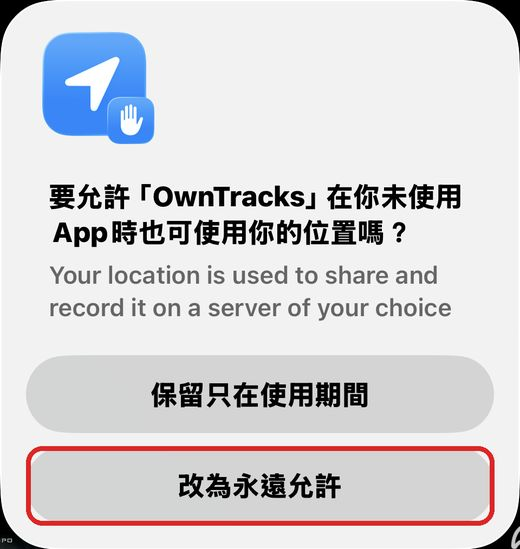
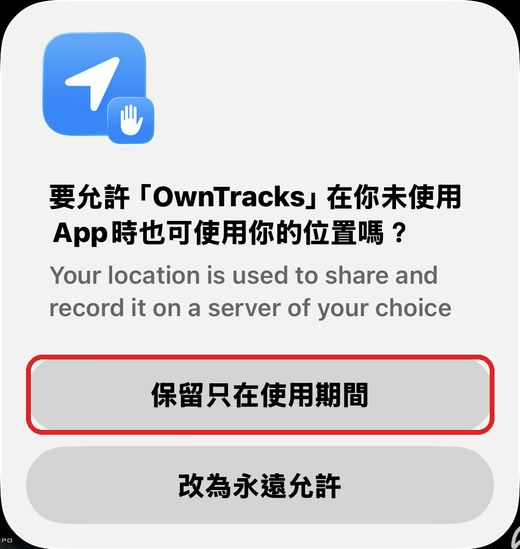
定位：背景位置改回「保留只在使用期間」（滑掉 App＝停止分享）
Claude-Session: https://claude.ai/code/session_01SgUoPQ3VnJEGpEUev7jTiB

Changed region(s): [[0.0308, 0.6193, 0.9538, 0.9599]]

diff --git a/locate/index.html b/locate/index.html
@@ -464,8 +464,8 @@
         <div class="sl"><div class="slh"><b>5</b>確認打開<small>5/9</small></div><div class="imp">⚠ 重要：一定不能點錯</div><div class="slt">跳出警告，按右邊紅字「<b>Continue</b>」<br><span class="hint">按 Cancel 的話要回上一步重開</span></div><div class="sli"><img src="img/p-allow-ok.jpg" alt=""></div></div>
         <div class="sl"><div class="slh"><b>6</b>匯入設定<small>6/9</small></div><div class="imp">⚠ 重要：一定不能點錯</div><div class="slt"><b>① 先按這個綠色按鈕</b>（在要定位的這支手機上按）</div><div class="sli"><a class="btn g" href="${esc(link)}" style="width:100%;max-width:340px">📲 按這裡匯入設定</a><div class="slt" style="width:100%;margin-top:10px"><b>② 跳出設定內容，按右邊紅字「Continue」</b></div><img src="img/p-import.jpg" alt=""></div></div>
         <div class="sl"><div class="slh"><b>7</b>匯入成功<small>7/9</small></div><div class="easy">👌 選哪個都可以，照下面選就好</div><div class="slt">接下來兩個視窗都按「<b>Continue</b>」。上方模式會自動變成 <b>Move</b>。</div><div class="sli"><div class="g2"><figure><img src="img/p-done.jpg" alt=""><figcaption>✅ 匯入成功 → <b>Continue</b></figcaption></figure><figure><img src="img/p-setup.jpg" alt=""><figcaption>✅ 內建提示 → <b>Continue</b></figcaption></figure></div></div></div>
-        <div class="sl"><div class="slh"><b>8</b>背景位置<small>8/9</small></div><div class="imp">⚠ 重要：一定不能點錯</div><div class="slt">之後回到 App 時會跳出這個，按「<b>改為永遠允許</b>」<br><span class="hint">這樣 App 被關掉後也會自己啟動，網站切換值勤／退勤才收得到。沒跳出來的話：iPhone 設定 → OwnTracks → 位置 → 永遠。</span></div><div class="sli"><img src="img/p-always.jpg" alt=""></div></div>
-        <div class="sl"><div class="slh"><b>9</b>完成 ✓<small>9/9</small></div><div class="slt"><b>i</b> → Status Info 的 Parameters 是 <b>https://bst-auth…</b> 開頭就成功了。<br><b>不要把 OwnTracks 從背景滑掉。</b></div><div class="sli"><img src="img/s6-ok.jpg" alt=""></div></div>
+        <div class="sl"><div class="slh"><b>8</b>背景位置<small>8/9</small></div><div class="imp">⚠ 重要：一定不能點錯</div><div class="slt">之後回到 App 時會跳出這個，按「<b>保留只在使用期間</b>」<br><span class="hint">值勤時讓 OwnTracks 開在背景就會持續回報；<b>把 App 往上滑掉＝停止分享位置</b>。</span></div><div class="sli"><img src="img/p-always.jpg" alt=""></div></div>
+        <div class="sl"><div class="slh"><b>9</b>完成 ✓<small>9/9</small></div><div class="slt"><b>i</b> → Status Info 的 Parameters 是 <b>https://bst-auth…</b> 開頭就成功了。<br>值勤時<b>不要把 OwnTracks 從背景滑掉</b>（滑掉就停止分享，重新打開 App 就恢復）。</div><div class="sli"><img src="img/s6-ok.jpg" alt=""></div></div>
       </div><div class="cnav"><button class="sb" id="cprev">‹ 上一步</button><span id="cdots"></span><button class="sb" id="cnext">下一步 ›</button></div></div>
       <a class="btn g" href="${esc(link)}" style="margin-top:12px">📲 用這支手機：按這裡匯入設定</a>
       <h4>👥 幫別的手機設定（例如團員、車上的手機）</h4><div class="hint">用<b>那支手機的相機</b>掃這個 QR Code：</div>
